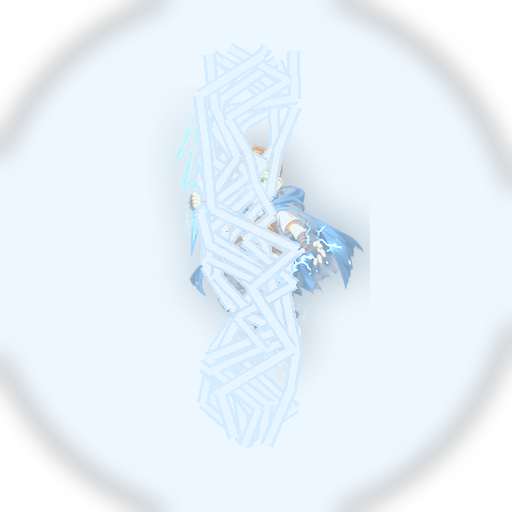
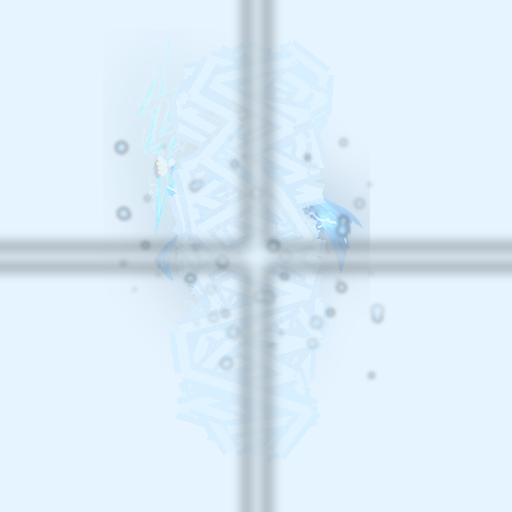
Amplify attack animation motion and VFX intensity

diff --git a/tools/generate_attack_animations.py b/tools/generate_attack_animations.py
@@ -7,7 +7,7 @@ import random
 from pathlib import Path
 from typing import Dict, List
 
-from PIL import Image, ImageChops, ImageDraw, ImageEnhance, ImageFilter
+from PIL import Image, ImageDraw, ImageEnhance, ImageFilter
 
 CANVAS = 512
 FRAME_COUNT = 10
@@ -50,7 +50,7 @@ def draw_lightning_overlay(frame_idx: int, rng: random.Random) -> Image.Image:
     draw = ImageDraw.Draw(overlay)
 
     impact_core = 1.0 - min(1.0, abs(frame_idx - 5) / 5.0)
-    branch_count = 4 + int(impact_core * 7)
+    branch_count = 7 + int(impact_core * 14)
     glow_alpha = int(65 + 160 * impact_core)
     bolt_alpha = int(90 + 160 * impact_core)
 
@@ -62,39 +62,39 @@ def draw_lightning_overlay(frame_idx: int, rng: random.Random) -> Image.Image:
         x = cx + rng.randint(-45, 45)
         y = top + rng.randint(-8, 8)
         pts = [(x, y)]
-        step_count = 8 + rng.randint(0, 4)
+        step_count = 9 + rng.randint(0, 6)
         for i in range(1, step_count):
             t = i / step_count
-            px = cx + int(math.sin(t * 9 + rng.random() * 4) * (18 + 26 * impact_core)) + rng.randint(-8, 8)
+            px = cx + int(math.sin(t * 11 + rng.random() * 7) * (24 + 38 * impact_core)) + rng.randint(-14, 14)
             py = int(top + t * (bottom - top)) + rng.randint(-10, 10)
             pts.append((px, py))
-        pts.append((cx + rng.randint(-22, 22), bottom + rng.randint(-8, 8)))
+        pts.append((cx + rng.randint(-36, 36), bottom + rng.randint(-14, 14)))
 
-        width = max(1, int(2 + 6 * impact_core - rng.random() * 2))
-        draw.line(pts, fill=(200, 230, 255, glow_alpha), width=width + 6)
+        width = max(1, int(2 + 9 * impact_core - rng.random() * 2))
+        draw.line(pts, fill=(200, 230, 255, glow_alpha), width=width + 11)
         draw.line(pts, fill=(240, 250, 255, bolt_alpha), width=width)
 
-    if 4 <= frame_idx <= 6:
+    if 3 <= frame_idx <= 6:
         flash = Image.new("RGBA", (CANVAS, CANVAS), (0, 0, 0, 0))
         fdraw = ImageDraw.Draw(flash)
-        radius = 90 + (6 - abs(frame_idx - 5)) * 30
+        radius = 130 + (6 - abs(frame_idx - 5)) * 42
         fdraw.ellipse(
             (cx - radius, CANVAS // 2 - radius, cx + radius, CANVAS // 2 + radius),
-            fill=(220, 240, 255, 130),
+            fill=(220, 240, 255, 190),
         )
-        flash = flash.filter(ImageFilter.GaussianBlur(12))
+        flash = flash.filter(ImageFilter.GaussianBlur(18))
         overlay = Image.alpha_composite(overlay, flash)
 
-    if frame_idx >= 6:
+    if frame_idx >= 5:
         sparks = Image.new("RGBA", (CANVAS, CANVAS), (0, 0, 0, 0))
         sdraw = ImageDraw.Draw(sparks)
-        for _ in range(55 - frame_idx * 4):
+        for _ in range(max(8, 95 - frame_idx * 9)):
             sx = cx + rng.randint(-130, 130)
             sy = CANVAS // 2 + rng.randint(-120, 120)
-            sr = rng.randint(1, 3)
-            sa = rng.randint(55, 170)
+            sr = rng.randint(1, 5)
+            sa = rng.randint(55, 190)
             sdraw.ellipse((sx - sr, sy - sr, sx + sr, sy + sr), fill=(195, 230, 255, sa))
-        sparks = sparks.filter(ImageFilter.GaussianBlur(1.5))
+        sparks = sparks.filter(ImageFilter.GaussianBlur(2.2))
         overlay = Image.alpha_composite(overlay, sparks)
 
     return overlay
@@ -102,35 +102,36 @@ def draw_lightning_overlay(frame_idx: int, rng: random.Random) -> Image.Image:
 
 def render_lightning_frames(src: Image.Image) -> List[Image.Image]:
     frames: List[Image.Image] = []
-    base = fit_source(src, 300, 300)
+    base = fit_source(src, 330, 330)
 
     for i in range(FRAME_COUNT):
         rng = random.Random(SEED + 101 + i)
         frame = Image.new("RGBA", (CANVAS, CANVAS), (0, 0, 0, 0))
 
-        cast = min(1.0, i / 3.0)
-        strike = max(0.0, 1.0 - abs(i - 5) / 4.0)
-        dissipate = max(0.0, (i - 6) / 4.0)
+        cast = min(1.0, i / 2.0)
+        strike = max(0.0, 1.0 - abs(i - 5) / 2.9)
+        dissipate = max(0.0, (i - 5) / 4.0)
 
-        scale = 0.84 + cast * 0.12 + strike * 0.18 - dissipate * 0.12
-        jitter_x = rng.randint(-3, 3) + int(math.sin(i * 1.4) * (2 + 6 * strike))
-        jitter_y = rng.randint(-3, 3) + int(math.cos(i * 1.1) * (2 + 5 * strike))
+        scale = 0.62 + cast * 0.22 + strike * 0.4 - dissipate * 0.18
+        jitter_x = rng.randint(-5, 5) + int(math.sin(i * 2.3) * (4 + 16 * strike))
+        jitter_y = rng.randint(-5, 5) + int(math.cos(i * 1.9) * (4 + 14 * strike))
 
         cur = base.resize(
             (max(1, int(base.width * scale)), max(1, int(base.height * scale))),
             Image.Resampling.LANCZOS,
         )
 
-        brighten = ImageEnhance.Brightness(cur).enhance(0.9 + strike * 0.65 + cast * 0.25)
-        glow = brighten.filter(ImageFilter.GaussianBlur(9 + int(10 * strike)))
-        glow_alpha = int(70 + 120 * strike + 50 * cast - 60 * dissipate)
+        brighten = ImageEnhance.Brightness(cur).enhance(0.72 + strike * 1.0 + cast * 0.35)
+        brighten = ImageEnhance.Color(brighten).enhance(1.05 + strike * 0.45)
+        glow = brighten.filter(ImageFilter.GaussianBlur(14 + int(14 * strike)))
+        glow_alpha = int(45 + 170 * strike + 85 * cast - 80 * dissipate)
         glow.putalpha(glow.split()[3].point(lambda a: max(0, min(255, (a * glow_alpha) // 255))))
 
         gx = (CANVAS - glow.width) // 2 + jitter_x
         gy = (CANVAS - glow.height) // 2 + jitter_y
         alpha_safe_paste(frame, glow, gx, gy)
 
-        cur_alpha = int(145 + 90 * cast + 20 * strike - 50 * dissipate)
+        cur_alpha = int(85 + 135 * cast + 45 * strike - 85 * dissipate)
         cur = brighten.copy()
         cur.putalpha(cur.split()[3].point(lambda a: max(0, min(255, (a * cur_alpha) // 255))))
         cx = (CANVAS - cur.width) // 2 + jitter_x
@@ -139,6 +140,25 @@ def render_lightning_frames(src: Image.Image) -> List[Image.Image]:
 
         overlay = draw_lightning_overlay(i, rng)
         frame = Image.alpha_composite(frame, overlay)
+
+        if 4 <= i <= 6:
+            impact_cross = Image.new("RGBA", (CANVAS, CANVAS), (0, 0, 0, 0))
+            idraw = ImageDraw.Draw(impact_cross)
+            strength = 1.0 - abs(i - 5) / 1.8
+            span = int(140 + 120 * strength)
+            width = int(8 + 12 * strength)
+            idraw.line(
+                [(CANVAS // 2 - span, CANVAS // 2), (CANVAS // 2 + span, CANVAS // 2)],
+                fill=(230, 245, 255, int(80 + 120 * strength)),
+                width=width,
+            )
+            idraw.line(
+                [(CANVAS // 2, CANVAS // 2 - span), (CANVAS // 2, CANVAS // 2 + span)],
+                fill=(230, 245, 255, int(80 + 120 * strength)),
+                width=width,
+            )
+            impact_cross = impact_cross.filter(ImageFilter.GaussianBlur(7))
+            frame = Image.alpha_composite(frame, impact_cross)
 
         frames.append(frame)
 
@@ -165,14 +185,15 @@ def draw_flame_trail(frame: Image.Image, frame_idx: int, sweep_t: float, rng: ra
     end = math.radians(330 - 130 * sweep_t)
 
     for band, col in [
-        (20, (255, 120, 25, 135)),
-        (12, (255, 175, 45, 170)),
-        (6, (255, 228, 95, 210)),
+        (38, (255, 90, 16, 130)),
+        (24, (255, 130, 24, 180)),
+        (14, (255, 190, 45, 220)),
+        (7, (255, 235, 130, 230)),
     ]:
-        pts = curved_arc_points(cx, cy, 140 + band // 2, start, end, 18)
+        pts = curved_arc_points(cx, cy, 138 + band // 2, start, end, 26)
         draw.line(pts, fill=col, width=band)
 
-    ember_count = 18 + int(40 * max(0.0, 1.0 - abs(frame_idx - 5) / 5.0))
+    ember_count = 34 + int(62 * max(0.0, 1.0 - abs(frame_idx - 5) / 5.0))
     for _ in range(ember_count):
         ex = cx + rng.randint(-130, 130)
         ey = cy + rng.randint(-80, 120)
@@ -180,29 +201,29 @@ def draw_flame_trail(frame: Image.Image, frame_idx: int, sweep_t: float, rng: ra
         a = rng.randint(70, 200)
         draw.ellipse((ex - r, ey - r, ex + r, ey + r), fill=(255, rng.randint(120, 220), 40, a))
 
-    trail = trail.filter(ImageFilter.GaussianBlur(2.8))
+    trail = trail.filter(ImageFilter.GaussianBlur(4.2))
     frame.alpha_composite(trail)
 
 
 def render_flaming_frames(src: Image.Image) -> List[Image.Image]:
     frames: List[Image.Image] = []
-    base = fit_source(src, 340, 340)
+    base = fit_source(src, 360, 360)
 
     for i in range(FRAME_COUNT):
         rng = random.Random(SEED + 303 + i)
         frame = Image.new("RGBA", (CANVAS, CANVAS), (0, 0, 0, 0))
 
         t = i / (FRAME_COUNT - 1)
-        windup = max(0.0, 1.0 - (t / 0.32)) if t < 0.32 else 0.0
+        windup = max(0.0, 1.0 - (t / 0.28)) if t < 0.28 else 0.0
         slash = 0.0
-        if 0.22 <= t <= 0.78:
-            slash = (t - 0.22) / (0.56)
-        ember = max(0.0, (t - 0.58) / 0.42)
+        if 0.2 <= t <= 0.76:
+            slash = (t - 0.2) / 0.56
+        ember = max(0.0, (t - 0.5) / 0.5)
 
-        angle = -38 * windup + (145 * slash)
-        tx = int(-56 * windup + 80 * slash)
-        ty = int(34 * windup - 42 * slash + 24 * ember)
-        scale = 0.9 + 0.16 * slash
+        angle = -74 * windup + (220 * slash)
+        tx = int(-84 * windup + 118 * slash)
+        ty = int(44 * windup - 62 * slash + 34 * ember)
+        scale = 0.82 + 0.27 * slash
 
         cur = base.resize(
             (max(1, int(base.width * scale)), max(1, int(base.height * scale))),
@@ -210,8 +231,9 @@ def render_flaming_frames(src: Image.Image) -> List[Image.Image]:
         )
         cur = cur.rotate(angle, expand=True, resample=Image.Resampling.BICUBIC)
 
-        brightness = 0.95 + 0.85 * max(0.0, 1.0 - abs(i - 5) / 5.0)
+        brightness = 0.8 + 1.05 * max(0.0, 1.0 - abs(i - 5) / 4.0)
         cur = ImageEnhance.Brightness(cur).enhance(brightness)
+        cur = ImageEnhance.Color(cur).enhance(1.2)
 
         if slash > 0.05:
             draw_flame_trail(frame, i, slash, rng)
@@ -219,20 +241,23 @@ def render_flaming_frames(src: Image.Image) -> List[Image.Image]:
         if ember > 0:
             smoke = Image.new("RGBA", (CANVAS, CANVAS), (0, 0, 0, 0))
             sdraw = ImageDraw.Draw(smoke)
-            for _ in range(16 + int(ember * 20)):
+            for _ in range(26 + int(ember * 40)):
                 sx = CANVAS // 2 + rng.randint(-90, 130)
                 sy = CANVAS // 2 + rng.randint(-70, 110)
                 sr = rng.randint(7, 18)
                 sa = int(25 + 60 * (1.0 - ember) + rng.randint(0, 35))
                 sdraw.ellipse((sx - sr, sy - sr, sx + sr, sy + sr), fill=(80, 80, 85, sa))
-            smoke = smoke.filter(ImageFilter.GaussianBlur(6.0))
+            smoke = smoke.filter(ImageFilter.GaussianBlur(8.5))
             frame.alpha_composite(smoke)
 
-        glow = cur.filter(ImageFilter.GaussianBlur(8))
-        glow.putalpha(glow.split()[3].point(lambda a: max(0, min(255, (a * 145) // 255))))
+        motion_smear = cur.filter(ImageFilter.GaussianBlur(4.2))
+        motion_smear = ImageEnhance.Brightness(motion_smear).enhance(1.12)
+        glow = cur.filter(ImageFilter.GaussianBlur(12))
+        glow.putalpha(glow.split()[3].point(lambda a: max(0, min(255, (a * 180) // 255))))
 
         x = (CANVAS - cur.width) // 2 + tx
         y = (CANVAS - cur.height) // 2 + ty
+        alpha_safe_paste(frame, motion_smear, x - int(20 * slash), y + int(12 * slash))
         alpha_safe_paste(frame, glow, (CANVAS - glow.width) // 2 + tx, (CANVAS - glow.height) // 2 + ty)
         alpha_safe_paste(frame, cur, x, y)
 
